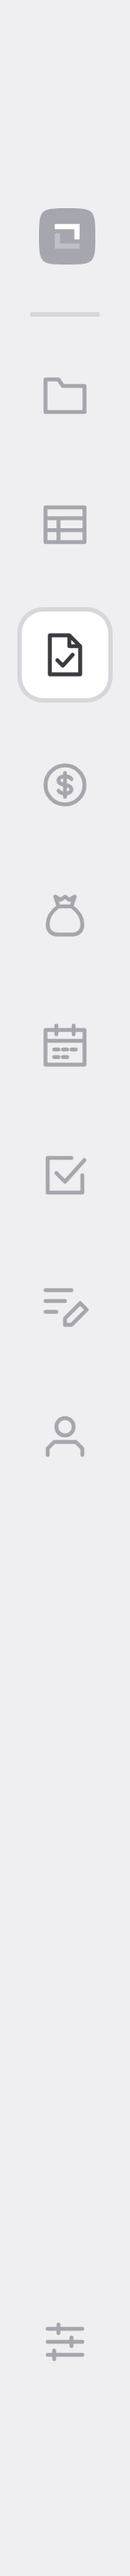
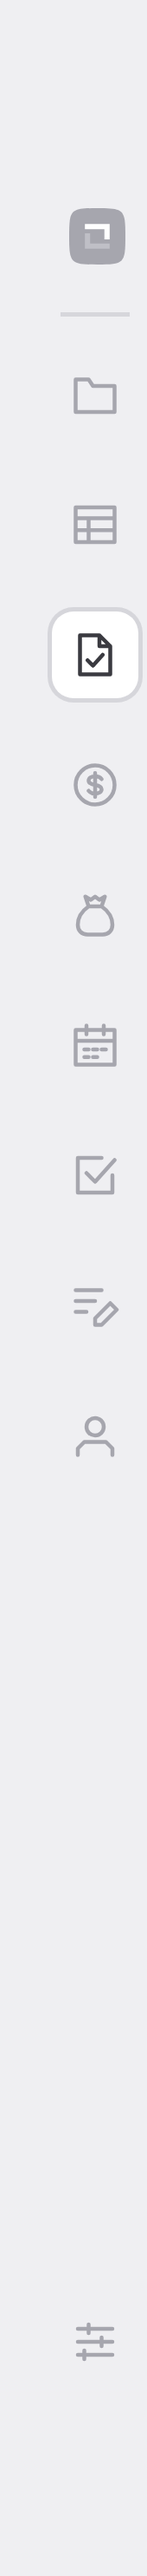
manual: side index band 17mm with symbols in print-safe zone, sample option [skip ci]
Claude-Session: https://claude.ai/code/session_01Jceth8a6knanqAjrfV6UhR

diff --git a/docs/manual/hangul/cover/띠-그림-17mm.html b/docs/manual/hangul/cover/띠-그림-17mm.html
@@ -1,0 +1,5 @@
+<!doctype html><meta charset=utf-8><style>body{margin:0;background:#fff}.band{width:34px;height:594px;background:#EFEFF2;position:relative;display:inline-block;margin-right:10px;vertical-align:top}
+.list{position:absolute;top:44px;left:10px;right:0;display:flex;flex-direction:column;align-items:center;gap:10px}
+.bot{position:absolute;bottom:44px;left:10px;right:0;display:flex;justify-content:center}
+.sm{width:20px;height:20px;border-radius:5px;display:flex;align-items:center;justify-content:center}.sm.on{background:#fff;box-shadow:0 0 0 1px #D6D6DB}
+.sm svg{display:block}.sdiv{width:16px;height:1px;background:#D6D6DB;margin:-2px 0}</style><div class="band" id="b_overview"><div class="list"><div class="sm on"><svg viewBox="0 0 100 100" width="13" height="13"><path d="M50 0C97.7 0 100 2.3 100 50C100 97.7 97.7 100 50 100C2.3 100 0 97.7 0 50C0 2.3 2.3 0 50 0Z" fill="#3A3A40"/><g transform="translate(50 50) scale(0.667) translate(-50 -50)"><path d="M17 17H83V58H69V31H17Z" fill="#FFFFFF"/><path d="M17 42H31V69H83V83H17Z" fill="#BFBFC6"/></g></svg></div><div class="sdiv"></div><div class="sm"><svg viewBox="0 0 24 24" width="12" height="12" fill="none" stroke="#A6A6AE" stroke-width="1.8" stroke-linecap="round" stroke-linejoin="round"><path d="M3 5h6l2 3h10v12H3z"/></svg></div><div class="sm"><svg viewBox="0 0 24 24" width="12" height="12" fill="none" stroke="#A6A6AE" stroke-width="1.8" stroke-linecap="round" stroke-linejoin="round"><path d="M3 4h18v16H3z M3 9h18 M3 14.5h18 M9 9v11"/></svg></div><div class="sm"><svg viewBox="0 0 24 24" width="12" height="12" fill="none" stroke="#A6A6AE" stroke-width="1.8" stroke-linecap="round" stroke-linejoin="round"><path d="M5 3h9l5 5v13H5z M14 3v5h5 M8.5 14.5l2.5 2.5 4.5-5"/></svg></div><div class="sm"><svg viewBox="0 0 24 24" width="12" height="12" fill="none" stroke="#A6A6AE" stroke-width="1.8" stroke-linecap="round" stroke-linejoin="round"><path d="M12 3a9 9 0 1 1 0 18a9 9 0 1 1 0-18z M15 9.3c-.6-.8-1.7-1.3-3-1.3-1.7 0-3 .8-3 2s1.3 1.7 3 2 3 .8 3 2-1.3 2-3 2c-1.3 0-2.4-.5-3-1.3 M12 6.5v11"/></svg></div><div class="sm"><svg viewBox="0 0 24 24" width="12" height="12" fill="none" stroke="#A6A6AE" stroke-width="1.8" stroke-linecap="round" stroke-linejoin="round"><path d="M9 8L7.5 3.5 10 5l2-1.5L14 5l2.5-1.5L15 8 M9 8h6 M9 8c-3.3 2.3-5 5.2-5 8.5 0 2.7 1.8 4.5 4.5 4.5h7c2.7 0 4.5-1.8 4.5-4.5 0-3.3-1.7-6.2-5-8.5"/></svg></div><div class="sm"><svg viewBox="0 0 24 24" width="12" height="12" fill="none" stroke="#A6A6AE" stroke-width="1.8" stroke-linecap="round" stroke-linejoin="round"><path d="M3 5h18v16H3z M3 10h18 M8 3v4 M16 3v4 M7 14h2 M11 14h2 M15 14h2 M7 17.5h2 M11 17.5h2"/></svg></div><div class="sm"><svg viewBox="0 0 24 24" width="12" height="12" fill="none" stroke="#A6A6AE" stroke-width="1.8" stroke-linecap="round" stroke-linejoin="round"><path d="M20 12v8H4V4h11 M8 11l4 4 9-10"/></svg></div><div class="sm"><svg viewBox="0 0 24 24" width="12" height="12" fill="none" stroke="#A6A6AE" stroke-width="1.8" stroke-linecap="round" stroke-linejoin="round"><path d="M3 5h12 M3 10h9 M3 15h5 M12 21v-3l7-7 3 3-7 7z"/></svg></div><div class="sm"><svg viewBox="0 0 24 24" width="12" height="12" fill="none" stroke="#A6A6AE" stroke-width="1.8" stroke-linecap="round" stroke-linejoin="round"><path d="M12 4a4 4 0 1 1 0 8a4 4 0 1 1 0-8z M4 21v-3l3-3h10l3 3v3"/></svg></div></div><div class="bot"><div class="sm"><svg viewBox="0 0 24 24" width="12" height="12" fill="none" stroke="#A6A6AE" stroke-width="1.8" stroke-linecap="round" stroke-linejoin="round"><path d="M4 6h16 M4 12h16 M4 18h16 M9 4v4 M15 10v4 M7 16v4"/></svg></div></div></div><div class="band" id="b_explorer"><div class="list"><div class="sm"><svg viewBox="0 0 100 100" width="13" height="13"><path d="M50 0C97.7 0 100 2.3 100 50C100 97.7 97.7 100 50 100C2.3 100 0 97.7 0 50C0 2.3 2.3 0 50 0Z" fill="#A6A6AE"/><g transform="translate(50 50) scale(0.667) translate(-50 -50)"><path d="M17 17H83V58H69V31H17Z" fill="#FFFFFF"/><path d="M17 42H31V69H83V83H17Z" fill="#BFBFC6"/></g></svg></div><div class="sdiv"></div><div class="sm on"><svg viewBox="0 0 24 24" width="12" height="12" fill="none" stroke="#3A3A40" stroke-width="1.8" stroke-linecap="round" stroke-linejoin="round"><path d="M3 5h6l2 3h10v12H3z"/></svg></div><div class="sm"><svg viewBox="0 0 24 24" width="12" height="12" fill="none" stroke="#A6A6AE" stroke-width="1.8" stroke-linecap="round" stroke-linejoin="round"><path d="M3 4h18v16H3z M3 9h18 M3 14.5h18 M9 9v11"/></svg></div><div class="sm"><svg viewBox="0 0 24 24" width="12" height="12" fill="none" stroke="#A6A6AE" stroke-width="1.8" stroke-linecap="round" stroke-linejoin="round"><path d="M5 3h9l5 5v13H5z M14 3v5h5 M8.5 14.5l2.5 2.5 4.5-5"/></svg></div><div class="sm"><svg viewBox="0 0 24 24" width="12" height="12" fill="none" stroke="#A6A6AE" stroke-width="1.8" stroke-linecap="round" stroke-linejoin="round"><path d="M12 3a9 9 0 1 1 0 18a9 9 0 1 1 0-18z M15 9.3c-.6-.8-1.7-1.3-3-1.3-1.7 0-3 .8-3 2s1.3 1.7 3 2 3 .8 3 2-1.3 2-3 2c-1.3 0-2.4-.5-3-1.3 M12 6.5v11"/></svg></div><div class="sm"><svg viewBox="0 0 24 24" width="12" height="12" fill="none" stroke="#A6A6AE" stroke-width="1.8" stroke-linecap="round" stroke-linejoin="round"><path d="M9 8L7.5 3.5 10 5l2-1.5L14 5l2.5-1.5L15 8 M9 8h6 M9 8c-3.3 2.3-5 5.2-5 8.5 0 2.7 1.8 4.5 4.5 4.5h7c2.7 0 4.5-1.8 4.5-4.5 0-3.3-1.7-6.2-5-8.5"/></svg></div><div class="sm"><svg viewBox="0 0 24 24" width="12" height="12" fill="none" stroke="#A6A6AE" stroke-width="1.8" stroke-linecap="round" stroke-linejoin="round"><path d="M3 5h18v16H3z M3 10h18 M8 3v4 M16 3v4 M7 14h2 M11 14h2 M15 14h2 M7 17.5h2 M11 17.5h2"/></svg></div><div class="sm"><svg viewBox="0 0 24 24" width="12" height="12" fill="none" stroke="#A6A6AE" stroke-width="1.8" stroke-linecap="round" stroke-linejoin="round"><path d="M20 12v8H4V4h11 M8 11l4 4 9-10"/></svg></div><div class="sm"><svg viewBox="0 0 24 24" width="12" height="12" fill="none" stroke="#A6A6AE" stroke-width="1.8" stroke-linecap="round" stroke-linejoin="round"><path d="M3 5h12 M3 10h9 M3 15h5 M12 21v-3l7-7 3 3-7 7z"/></svg></div><div class="sm"><svg viewBox="0 0 24 24" width="12" height="12" fill="none" stroke="#A6A6AE" stroke-width="1.8" stroke-linecap="round" stroke-linejoin="round"><path d="M12 4a4 4 0 1 1 0 8a4 4 0 1 1 0-8z M4 21v-3l3-3h10l3 3v3"/></svg></div></div><div class="bot"><div class="sm"><svg viewBox="0 0 24 24" width="12" height="12" fill="none" stroke="#A6A6AE" stroke-width="1.8" stroke-linecap="round" stroke-linejoin="round"><path d="M4 6h16 M4 12h16 M4 18h16 M9 4v4 M15 10v4 M7 16v4"/></svg></div></div></div><div class="band" id="b_complaints"><div class="list"><div class="sm"><svg viewBox="0 0 100 100" width="13" height="13"><path d="M50 0C97.7 0 100 2.3 100 50C100 97.7 97.7 100 50 100C2.3 100 0 97.7 0 50C0 2.3 2.3 0 50 0Z" fill="#A6A6AE"/><g transform="translate(50 50) scale(0.667) translate(-50 -50)"><path d="M17 17H83V58H69V31H17Z" fill="#FFFFFF"/><path d="M17 42H31V69H83V83H17Z" fill="#BFBFC6"/></g></svg></div><div class="sdiv"></div><div class="sm"><svg viewBox="0 0 24 24" width="12" height="12" fill="none" stroke="#A6A6AE" stroke-width="1.8" stroke-linecap="round" stroke-linejoin="round"><path d="M3 5h6l2 3h10v12H3z"/></svg></div><div class="sm on"><svg viewBox="0 0 24 24" width="12" height="12" fill="none" stroke="#3A3A40" stroke-width="1.8" stroke-linecap="round" stroke-linejoin="round"><path d="M3 4h18v16H3z M3 9h18 M3 14.5h18 M9 9v11"/></svg></div><div class="sm"><svg viewBox="0 0 24 24" width="12" height="12" fill="none" stroke="#A6A6AE" stroke-width="1.8" stroke-linecap="round" stroke-linejoin="round"><path d="M5 3h9l5 5v13H5z M14 3v5h5 M8.5 14.5l2.5 2.5 4.5-5"/></svg></div><div class="sm"><svg viewBox="0 0 24 24" width="12" height="12" fill="none" stroke="#A6A6AE" stroke-width="1.8" stroke-linecap="round" stroke-linejoin="round"><path d="M12 3a9 9 0 1 1 0 18a9 9 0 1 1 0-18z M15 9.3c-.6-.8-1.7-1.3-3-1.3-1.7 0-3 .8-3 2s1.3 1.7 3 2 3 .8 3 2-1.3 2-3 2c-1.3 0-2.4-.5-3-1.3 M12 6.5v11"/></svg></div><div class="sm"><svg viewBox="0 0 24 24" width="12" height="12" fill="none" stroke="#A6A6AE" stroke-width="1.8" stroke-linecap="round" stroke-linejoin="round"><path d="M9 8L7.5 3.5 10 5l2-1.5L14 5l2.5-1.5L15 8 M9 8h6 M9 8c-3.3 2.3-5 5.2-5 8.5 0 2.7 1.8 4.5 4.5 4.5h7c2.7 0 4.5-1.8 4.5-4.5 0-3.3-1.7-6.2-5-8.5"/></svg></div><div class="sm"><svg viewBox="0 0 24 24" width="12" height="12" fill="none" stroke="#A6A6AE" stroke-width="1.8" stroke-linecap="round" stroke-linejoin="round"><path d="M3 5h18v16H3z M3 10h18 M8 3v4 M16 3v4 M7 14h2 M11 14h2 M15 14h2 M7 17.5h2 M11 17.5h2"/></svg></div><div class="sm"><svg viewBox="0 0 24 24" width="12" height="12" fill="none" stroke="#A6A6AE" stroke-width="1.8" stroke-linecap="round" stroke-linejoin="round"><path d="M20 12v8H4V4h11 M8 11l4 4 9-10"/></svg></div><div class="sm"><svg viewBox="0 0 24 24" width="12" height="12" fill="none" stroke="#A6A6AE" stroke-width="1.8" stroke-linecap="round" stroke-linejoin="round"><path d="M3 5h12 M3 10h9 M3 15h5 M12 21v-3l7-7 3 3-7 7z"/></svg></div><div class="sm"><svg viewBox="0 0 24 24" width="12" height="12" fill="none" stroke="#A6A6AE" stroke-width="1.8" stroke-linecap="round" stroke-linejoin="round"><path d="M12 4a4 4 0 1 1 0 8a4 4 0 1 1 0-8z M4 21v-3l3-3h10l3 3v3"/></svg></div></div><div class="bot"><div class="sm"><svg viewBox="0 0 24 24" width="12" height="12" fill="none" stroke="#A6A6AE" stroke-width="1.8" stroke-linecap="round" stroke-linejoin="round"><path d="M4 6h16 M4 12h16 M4 18h16 M9 4v4 M15 10v4 M7 16v4"/></svg></div></div></div><div class="band" id="b_process"><div class="list"><div class="sm"><svg viewBox="0 0 100 100" width="13" height="13"><path d="M50 0C97.7 0 100 2.3 100 50C100 97.7 97.7 100 50 100C2.3 100 0 97.7 0 50C0 2.3 2.3 0 50 0Z" fill="#A6A6AE"/><g transform="translate(50 50) scale(0.667) translate(-50 -50)"><path d="M17 17H83V58H69V31H17Z" fill="#FFFFFF"/><path d="M17 42H31V69H83V83H17Z" fill="#BFBFC6"/></g></svg></div><div class="sdiv"></div><div class="sm"><svg viewBox="0 0 24 24" width="12" height="12" fill="none" stroke="#A6A6AE" stroke-width="1.8" stroke-linecap="round" stroke-linejoin="round"><path d="M3 5h6l2 3h10v12H3z"/></svg></div><div class="sm"><svg viewBox="0 0 24 24" width="12" height="12" fill="none" stroke="#A6A6AE" stroke-width="1.8" stroke-linecap="round" stroke-linejoin="round"><path d="M3 4h18v16H3z M3 9h18 M3 14.5h18 M9 9v11"/></svg></div><div class="sm on"><svg viewBox="0 0 24 24" width="12" height="12" fill="none" stroke="#3A3A40" stroke-width="1.8" stroke-linecap="round" stroke-linejoin="round"><path d="M5 3h9l5 5v13H5z M14 3v5h5 M8.5 14.5l2.5 2.5 4.5-5"/></svg></div><div class="sm"><svg viewBox="0 0 24 24" width="12" height="12" fill="none" stroke="#A6A6AE" stroke-width="1.8" stroke-linecap="round" stroke-linejoin="round"><path d="M12 3a9 9 0 1 1 0 18a9 9 0 1 1 0-18z M15 9.3c-.6-.8-1.7-1.3-3-1.3-1.7 0-3 .8-3 2s1.3 1.7 3 2 3 .8 3 2-1.3 2-3 2c-1.3 0-2.4-.5-3-1.3 M12 6.5v11"/></svg></div><div class="sm"><svg viewBox="0 0 24 24" width="12" height="12" fill="none" stroke="#A6A6AE" stroke-width="1.8" stroke-linecap="round" stroke-linejoin="round"><path d="M9 8L7.5 3.5 10 5l2-1.5L14 5l2.5-1.5L15 8 M9 8h6 M9 8c-3.3 2.3-5 5.2-5 8.5 0 2.7 1.8 4.5 4.5 4.5h7c2.7 0 4.5-1.8 4.5-4.5 0-3.3-1.7-6.2-5-8.5"/></svg></div><div class="sm"><svg viewBox="0 0 24 24" width="12" height="12" fill="none" stroke="#A6A6AE" stroke-width="1.8" stroke-linecap="round" stroke-linejoin="round"><path d="M3 5h18v16H3z M3 10h18 M8 3v4 M16 3v4 M7 14h2 M11 14h2 M15 14h2 M7 17.5h2 M11 17.5h2"/></svg></div><div class="sm"><svg viewBox="0 0 24 24" width="12" height="12" fill="none" stroke="#A6A6AE" stroke-width="1.8" stroke-linecap="round" stroke-linejoin="round"><path d="M20 12v8H4V4h11 M8 11l4 4 9-10"/></svg></div><div class="sm"><svg viewBox="0 0 24 24" width="12" height="12" fill="none" stroke="#A6A6AE" stroke-width="1.8" stroke-linecap="round" stroke-linejoin="round"><path d="M3 5h12 M3 10h9 M3 15h5 M12 21v-3l7-7 3 3-7 7z"/></svg></div><div class="sm"><svg viewBox="0 0 24 24" width="12" height="12" fill="none" stroke="#A6A6AE" stroke-width="1.8" stroke-linecap="round" stroke-linejoin="round"><path d="M12 4a4 4 0 1 1 0 8a4 4 0 1 1 0-8z M4 21v-3l3-3h10l3 3v3"/></svg></div></div><div class="bot"><div class="sm"><svg viewBox="0 0 24 24" width="12" height="12" fill="none" stroke="#A6A6AE" stroke-width="1.8" stroke-linecap="round" stroke-linejoin="round"><path d="M4 6h16 M4 12h16 M4 18h16 M9 4v4 M15 10v4 M7 16v4"/></svg></div></div></div><div class="band" id="b_budget"><div class="list"><div class="sm"><svg viewBox="0 0 100 100" width="13" height="13"><path d="M50 0C97.7 0 100 2.3 100 50C100 97.7 97.7 100 50 100C2.3 100 0 97.7 0 50C0 2.3 2.3 0 50 0Z" fill="#A6A6AE"/><g transform="translate(50 50) scale(0.667) translate(-50 -50)"><path d="M17 17H83V58H69V31H17Z" fill="#FFFFFF"/><path d="M17 42H31V69H83V83H17Z" fill="#BFBFC6"/></g></svg></div><div class="sdiv"></div><div class="sm"><svg viewBox="0 0 24 24" width="12" height="12" fill="none" stroke="#A6A6AE" stroke-width="1.8" stroke-linecap="round" stroke-linejoin="round"><path d="M3 5h6l2 3h10v12H3z"/></svg></div><div class="sm"><svg viewBox="0 0 24 24" width="12" height="12" fill="none" stroke="#A6A6AE" stroke-width="1.8" stroke-linecap="round" stroke-linejoin="round"><path d="M3 4h18v16H3z M3 9h18 M3 14.5h18 M9 9v11"/></svg></div><div class="sm"><svg viewBox="0 0 24 24" width="12" height="12" fill="none" stroke="#A6A6AE" stroke-width="1.8" stroke-linecap="round" stroke-linejoin="round"><path d="M5 3h9l5 5v13H5z M14 3v5h5 M8.5 14.5l2.5 2.5 4.5-5"/></svg></div><div class="sm on"><svg viewBox="0 0 24 24" width="12" height="12" fill="none" stroke="#3A3A40" stroke-width="1.8" stroke-linecap="round" stroke-linejoin="round"><path d="M12 3a9 9 0 1 1 0 18a9 9 0 1 1 0-18z M15 9.3c-.6-.8-1.7-1.3-3-1.3-1.7 0-3 .8-3 2s1.3 1.7 3 2 3 .8 3 2-1.3 2-3 2c-1.3 0-2.4-.5-3-1.3 M12 6.5v11"/></svg></div><div class="sm"><svg viewBox="0 0 24 24" width="12" height="12" fill="none" stroke="#A6A6AE" stroke-width="1.8" stroke-linecap="round" stroke-linejoin="round"><path d="M9 8L7.5 3.5 10 5l2-1.5L14 5l2.5-1.5L15 8 M9 8h6 M9 8c-3.3 2.3-5 5.2-5 8.5 0 2.7 1.8 4.5 4.5 4.5h7c2.7 0 4.5-1.8 4.5-4.5 0-3.3-1.7-6.2-5-8.5"/></svg></div><div class="sm"><svg viewBox="0 0 24 24" width="12" height="12" fill="none" stroke="#A6A6AE" stroke-width="1.8" stroke-linecap="round" stroke-linejoin="round"><path d="M3 5h18v16H3z M3 10h18 M8 3v4 M16 3v4 M7 14h2 M11 14h2 M15 14h2 M7 17.5h2 M11 17.5h2"/></svg></div><div class="sm"><svg viewBox="0 0 24 24" width="12" height="12" fill="none" stroke="#A6A6AE" stroke-width="1.8" stroke-linecap="round" stroke-linejoin="round"><path d="M20 12v8H4V4h11 M8 11l4 4 9-10"/></svg></div><div class="sm"><svg viewBox="0 0 24 24" width="12" height="12" fill="none" stroke="#A6A6AE" stroke-width="1.8" stroke-linecap="round" stroke-linejoin="round"><path d="M3 5h12 M3 10h9 M3 15h5 M12 21v-3l7-7 3 3-7 7z"/></svg></div><div class="sm"><svg viewBox="0 0 24 24" width="12" height="12" fill="none" stroke="#A6A6AE" stroke-width="1.8" stroke-linecap="round" stroke-linejoin="round"><path d="M12 4a4 4 0 1 1 0 8a4 4 0 1 1 0-8z M4 21v-3l3-3h10l3 3v3"/></svg></div></div><div class="bot"><div class="sm"><svg viewBox="0 0 24 24" width="12" height="12" fill="none" stroke="#A6A6AE" stroke-width="1.8" stroke-linecap="round" stroke-linejoin="round"><path d="M4 6h16 M4 12h16 M4 18h16 M9 4v4 M15 10v4 M7 16v4"/></svg></div></div></div><div class="band" id="b_bstatus"><div class="list"><div class="sm"><svg viewBox="0 0 100 100" width="13" height="13"><path d="M50 0C97.7 0 100 2.3 100 50C100 97.7 97.7 100 50 100C2.3 100 0 97.7 0 50C0 2.3 2.3 0 50 0Z" fill="#A6A6AE"/><g transform="translate(50 50) scale(0.667) translate(-50 -50)"><path d="M17 17H83V58H69V31H17Z" fill="#FFFFFF"/><path d="M17 42H31V69H83V83H17Z" fill="#BFBFC6"/></g></svg></div><div class="sdiv"></div><div class="sm"><svg viewBox="0 0 24 24" width="12" height="12" fill="none" stroke="#A6A6AE" stroke-width="1.8" stroke-linecap="round" stroke-linejoin="round"><path d="M3 5h6l2 3h10v12H3z"/></svg></div><div class="sm"><svg viewBox="0 0 24 24" width="12" height="12" fill="none" stroke="#A6A6AE" stroke-width="1.8" stroke-linecap="round" stroke-linejoin="round"><path d="M3 4h18v16H3z M3 9h18 M3 14.5h18 M9 9v11"/></svg></div><div class="sm"><svg viewBox="0 0 24 24" width="12" height="12" fill="none" stroke="#A6A6AE" stroke-width="1.8" stroke-linecap="round" stroke-linejoin="round"><path d="M5 3h9l5 5v13H5z M14 3v5h5 M8.5 14.5l2.5 2.5 4.5-5"/></svg></div><div class="sm"><svg viewBox="0 0 24 24" width="12" height="12" fill="none" stroke="#A6A6AE" stroke-width="1.8" stroke-linecap="round" stroke-linejoin="round"><path d="M12 3a9 9 0 1 1 0 18a9 9 0 1 1 0-18z M15 9.3c-.6-.8-1.7-1.3-3-1.3-1.7 0-3 .8-3 2s1.3 1.7 3 2 3 .8 3 2-1.3 2-3 2c-1.3 0-2.4-.5-3-1.3 M12 6.5v11"/></svg></div><div class="sm on"><svg viewBox="0 0 24 24" width="12" height="12" fill="none" stroke="#3A3A40" stroke-width="1.8" stroke-linecap="round" stroke-linejoin="round"><path d="M9 8L7.5 3.5 10 5l2-1.5L14 5l2.5-1.5L15 8 M9 8h6 M9 8c-3.3 2.3-5 5.2-5 8.5 0 2.7 1.8 4.5 4.5 4.5h7c2.7 0 4.5-1.8 4.5-4.5 0-3.3-1.7-6.2-5-8.5"/></svg></div><div class="sm"><svg viewBox="0 0 24 24" width="12" height="12" fill="none" stroke="#A6A6AE" stroke-width="1.8" stroke-linecap="round" stroke-linejoin="round"><path d="M3 5h18v16H3z M3 10h18 M8 3v4 M16 3v4 M7 14h2 M11 14h2 M15 14h2 M7 17.5h2 M11 17.5h2"/></svg></div><div class="sm"><svg viewBox="0 0 24 24" width="12" height="12" fill="none" stroke="#A6A6AE" stroke-width="1.8" stroke-linecap="round" stroke-linejoin="round"><path d="M20 12v8H4V4h11 M8 11l4 4 9-10"/></svg></div><div class="sm"><svg viewBox="0 0 24 24" width="12" height="12" fill="none" stroke="#A6A6AE" stroke-width="1.8" stroke-linecap="round" stroke-linejoin="round"><path d="M3 5h12 M3 10h9 M3 15h5 M12 21v-3l7-7 3 3-7 7z"/></svg></div><div class="sm"><svg viewBox="0 0 24 24" width="12" height="12" fill="none" stroke="#A6A6AE" stroke-width="1.8" stroke-linecap="round" stroke-linejoin="round"><path d="M12 4a4 4 0 1 1 0 8a4 4 0 1 1 0-8z M4 21v-3l3-3h10l3 3v3"/></svg></div></div><div class="bot"><div class="sm"><svg viewBox="0 0 24 24" width="12" height="12" fill="none" stroke="#A6A6AE" stroke-width="1.8" stroke-linecap="round" stroke-linejoin="round"><path d="M4 6h16 M4 12h16 M4 18h16 M9 4v4 M15 10v4 M7 16v4"/></svg></div></div></div><div class="band" id="b_calendar"><div class="list"><div class="sm"><svg viewBox="0 0 100 100" width="13" height="13"><path d="M50 0C97.7 0 100 2.3 100 50C100 97.7 97.7 100 50 100C2.3 100 0 97.7 0 50C0 2.3 2.3 0 50 0Z" fill="#A6A6AE"/><g transform="translate(50 50) scale(0.667) translate(-50 -50)"><path d="M17 17H83V58H69V31H17Z" fill="#FFFFFF"/><path d="M17 42H31V69H83V83H17Z" fill="#BFBFC6"/></g></svg></div><div class="sdiv"></div><div class="sm"><svg viewBox="0 0 24 24" width="12" height="12" fill="none" stroke="#A6A6AE" stroke-width="1.8" stroke-linecap="round" stroke-linejoin="round"><path d="M3 5h6l2 3h10v12H3z"/></svg></div><div class="sm"><svg viewBox="0 0 24 24" width="12" height="12" fill="none" stroke="#A6A6AE" stroke-width="1.8" stroke-linecap="round" stroke-linejoin="round"><path d="M3 4h18v16H3z M3 9h18 M3 14.5h18 M9 9v11"/></svg></div><div class="sm"><svg viewBox="0 0 24 24" width="12" height="12" fill="none" stroke="#A6A6AE" stroke-width="1.8" stroke-linecap="round" stroke-linejoin="round"><path d="M5 3h9l5 5v13H5z M14 3v5h5 M8.5 14.5l2.5 2.5 4.5-5"/></svg></div><div class="sm"><svg viewBox="0 0 24 24" width="12" height="12" fill="none" stroke="#A6A6AE" stroke-width="1.8" stroke-linecap="round" stroke-linejoin="round"><path d="M12 3a9 9 0 1 1 0 18a9 9 0 1 1 0-18z M15 9.3c-.6-.8-1.7-1.3-3-1.3-1.7 0-3 .8-3 2s1.3 1.7 3 2 3 .8 3 2-1.3 2-3 2c-1.3 0-2.4-.5-3-1.3 M12 6.5v11"/></svg></div><div class="sm"><svg viewBox="0 0 24 24" width="12" height="12" fill="none" stroke="#A6A6AE" stroke-width="1.8" stroke-linecap="round" stroke-linejoin="round"><path d="M9 8L7.5 3.5 10 5l2-1.5L14 5l2.5-1.5L15 8 M9 8h6 M9 8c-3.3 2.3-5 5.2-5 8.5 0 2.7 1.8 4.5 4.5 4.5h7c2.7 0 4.5-1.8 4.5-4.5 0-3.3-1.7-6.2-5-8.5"/></svg></div><div class="sm on"><svg viewBox="0 0 24 24" width="12" height="12" fill="none" stroke="#3A3A40" stroke-width="1.8" stroke-linecap="round" stroke-linejoin="round"><path d="M3 5h18v16H3z M3 10h18 M8 3v4 M16 3v4 M7 14h2 M11 14h2 M15 14h2 M7 17.5h2 M11 17.5h2"/></svg></div><div class="sm"><svg viewBox="0 0 24 24" width="12" height="12" fill="none" stroke="#A6A6AE" stroke-width="1.8" stroke-linecap="round" stroke-linejoin="round"><path d="M20 12v8H4V4h11 M8 11l4 4 9-10"/></svg></div><div class="sm"><svg viewBox="0 0 24 24" width="12" height="12" fill="none" stroke="#A6A6AE" stroke-width="1.8" stroke-linecap="round" stroke-linejoin="round"><path d="M3 5h12 M3 10h9 M3 15h5 M12 21v-3l7-7 3 3-7 7z"/></svg></div><div class="sm"><svg viewBox="0 0 24 24" width="12" height="12" fill="none" stroke="#A6A6AE" stroke-width="1.8" stroke-linecap="round" stroke-linejoin="round"><path d="M12 4a4 4 0 1 1 0 8a4 4 0 1 1 0-8z M4 21v-3l3-3h10l3 3v3"/></svg></div></div><div class="bot"><div class="sm"><svg viewBox="0 0 24 24" width="12" height="12" fill="none" stroke="#A6A6AE" stroke-width="1.8" stroke-linecap="round" stroke-linejoin="round"><path d="M4 6h16 M4 12h16 M4 18h16 M9 4v4 M15 10v4 M7 16v4"/></svg></div></div></div><div class="band" id="b_todo"><div class="list"><div class="sm"><svg viewBox="0 0 100 100" width="13" height="13"><path d="M50 0C97.7 0 100 2.3 100 50C100 97.7 97.7 100 50 100C2.3 100 0 97.7 0 50C0 2.3 2.3 0 50 0Z" fill="#A6A6AE"/><g transform="translate(50 50) scale(0.667) translate(-50 -50)"><path d="M17 17H83V58H69V31H17Z" fill="#FFFFFF"/><path d="M17 42H31V69H83V83H17Z" fill="#BFBFC6"/></g></svg></div><div class="sdiv"></div><div class="sm"><svg viewBox="0 0 24 24" width="12" height="12" fill="none" stroke="#A6A6AE" stroke-width="1.8" stroke-linecap="round" stroke-linejoin="round"><path d="M3 5h6l2 3h10v12H3z"/></svg></div><div class="sm"><svg viewBox="0 0 24 24" width="12" height="12" fill="none" stroke="#A6A6AE" stroke-width="1.8" stroke-linecap="round" stroke-linejoin="round"><path d="M3 4h18v16H3z M3 9h18 M3 14.5h18 M9 9v11"/></svg></div><div class="sm"><svg viewBox="0 0 24 24" width="12" height="12" fill="none" stroke="#A6A6AE" stroke-width="1.8" stroke-linecap="round" stroke-linejoin="round"><path d="M5 3h9l5 5v13H5z M14 3v5h5 M8.5 14.5l2.5 2.5 4.5-5"/></svg></div><div class="sm"><svg viewBox="0 0 24 24" width="12" height="12" fill="none" stroke="#A6A6AE" stroke-width="1.8" stroke-linecap="round" stroke-linejoin="round"><path d="M12 3a9 9 0 1 1 0 18a9 9 0 1 1 0-18z M15 9.3c-.6-.8-1.7-1.3-3-1.3-1.7 0-3 .8-3 2s1.3 1.7 3 2 3 .8 3 2-1.3 2-3 2c-1.3 0-2.4-.5-3-1.3 M12 6.5v11"/></svg></div><div class="sm"><svg viewBox="0 0 24 24" width="12" height="12" fill="none" stroke="#A6A6AE" stroke-width="1.8" stroke-linecap="round" stroke-linejoin="round"><path d="M9 8L7.5 3.5 10 5l2-1.5L14 5l2.5-1.5L15 8 M9 8h6 M9 8c-3.3 2.3-5 5.2-5 8.5 0 2.7 1.8 4.5 4.5 4.5h7c2.7 0 4.5-1.8 4.5-4.5 0-3.3-1.7-6.2-5-8.5"/></svg></div><div class="sm"><svg viewBox="0 0 24 24" width="12" height="12" fill="none" stroke="#A6A6AE" stroke-width="1.8" stroke-linecap="round" stroke-linejoin="round"><path d="M3 5h18v16H3z M3 10h18 M8 3v4 M16 3v4 M7 14h2 M11 14h2 M15 14h2 M7 17.5h2 M11 17.5h2"/></svg></div><div class="sm on"><svg viewBox="0 0 24 24" width="12" height="12" fill="none" stroke="#3A3A40" stroke-width="1.8" stroke-linecap="round" stroke-linejoin="round"><path d="M20 12v8H4V4h11 M8 11l4 4 9-10"/></svg></div><div class="sm"><svg viewBox="0 0 24 24" width="12" height="12" fill="none" stroke="#A6A6AE" stroke-width="1.8" stroke-linecap="round" stroke-linejoin="round"><path d="M3 5h12 M3 10h9 M3 15h5 M12 21v-3l7-7 3 3-7 7z"/></svg></div><div class="sm"><svg viewBox="0 0 24 24" width="12" height="12" fill="none" stroke="#A6A6AE" stroke-width="1.8" stroke-linecap="round" stroke-linejoin="round"><path d="M12 4a4 4 0 1 1 0 8a4 4 0 1 1 0-8z M4 21v-3l3-3h10l3 3v3"/></svg></div></div><div class="bot"><div class="sm"><svg viewBox="0 0 24 24" width="12" height="12" fill="none" stroke="#A6A6AE" stroke-width="1.8" stroke-linecap="round" stroke-linejoin="round"><path d="M4 6h16 M4 12h16 M4 18h16 M9 4v4 M15 10v4 M7 16v4"/></svg></div></div></div><div class="band" id="b_journal"><div class="list"><div class="sm"><svg viewBox="0 0 100 100" width="13" height="13"><path d="M50 0C97.7 0 100 2.3 100 50C100 97.7 97.7 100 50 100C2.3 100 0 97.7 0 50C0 2.3 2.3 0 50 0Z" fill="#A6A6AE"/><g transform="translate(50 50) scale(0.667) translate(-50 -50)"><path d="M17 17H83V58H69V31H17Z" fill="#FFFFFF"/><path d="M17 42H31V69H83V83H17Z" fill="#BFBFC6"/></g></svg></div><div class="sdiv"></div><div class="sm"><svg viewBox="0 0 24 24" width="12" height="12" fill="none" stroke="#A6A6AE" stroke-width="1.8" stroke-linecap="round" stroke-linejoin="round"><path d="M3 5h6l2 3h10v12H3z"/></svg></div><div class="sm"><svg viewBox="0 0 24 24" width="12" height="12" fill="none" stroke="#A6A6AE" stroke-width="1.8" stroke-linecap="round" stroke-linejoin="round"><path d="M3 4h18v16H3z M3 9h18 M3 14.5h18 M9 9v11"/></svg></div><div class="sm"><svg viewBox="0 0 24 24" width="12" height="12" fill="none" stroke="#A6A6AE" stroke-width="1.8" stroke-linecap="round" stroke-linejoin="round"><path d="M5 3h9l5 5v13H5z M14 3v5h5 M8.5 14.5l2.5 2.5 4.5-5"/></svg></div><div class="sm"><svg viewBox="0 0 24 24" width="12" height="12" fill="none" stroke="#A6A6AE" stroke-width="1.8" stroke-linecap="round" stroke-linejoin="round"><path d="M12 3a9 9 0 1 1 0 18a9 9 0 1 1 0-18z M15 9.3c-.6-.8-1.7-1.3-3-1.3-1.7 0-3 .8-3 2s1.3 1.7 3 2 3 .8 3 2-1.3 2-3 2c-1.3 0-2.4-.5-3-1.3 M12 6.5v11"/></svg></div><div class="sm"><svg viewBox="0 0 24 24" width="12" height="12" fill="none" stroke="#A6A6AE" stroke-width="1.8" stroke-linecap="round" stroke-linejoin="round"><path d="M9 8L7.5 3.5 10 5l2-1.5L14 5l2.5-1.5L15 8 M9 8h6 M9 8c-3.3 2.3-5 5.2-5 8.5 0 2.7 1.8 4.5 4.5 4.5h7c2.7 0 4.5-1.8 4.5-4.5 0-3.3-1.7-6.2-5-8.5"/></svg></div><div class="sm"><svg viewBox="0 0 24 24" width="12" height="12" fill="none" stroke="#A6A6AE" stroke-width="1.8" stroke-linecap="round" stroke-linejoin="round"><path d="M3 5h18v16H3z M3 10h18 M8 3v4 M16 3v4 M7 14h2 M11 14h2 M15 14h2 M7 17.5h2 M11 17.5h2"/></svg></div><div class="sm"><svg viewBox="0 0 24 24" width="12" height="12" fill="none" stroke="#A6A6AE" stroke-width="1.8" stroke-linecap="round" stroke-linejoin="round"><path d="M20 12v8H4V4h11 M8 11l4 4 9-10"/></svg></div><div class="sm on"><svg viewBox="0 0 24 24" width="12" height="12" fill="none" stroke="#3A3A40" stroke-width="1.8" stroke-linecap="round" stroke-linejoin="round"><path d="M3 5h12 M3 10h9 M3 15h5 M12 21v-3l7-7 3 3-7 7z"/></svg></div><div class="sm"><svg viewBox="0 0 24 24" width="12" height="12" fill="none" stroke="#A6A6AE" stroke-width="1.8" stroke-linecap="round" stroke-linejoin="round"><path d="M12 4a4 4 0 1 1 0 8a4 4 0 1 1 0-8z M4 21v-3l3-3h10l3 3v3"/></svg></div></div><div class="bot"><div class="sm"><svg viewBox="0 0 24 24" width="12" height="12" fill="none" stroke="#A6A6AE" stroke-width="1.8" stroke-linecap="round" stroke-linejoin="round"><path d="M4 6h16 M4 12h16 M4 18h16 M9 4v4 M15 10v4 M7 16v4"/></svg></div></div></div><div class="band" id="b_contacts"><div class="list"><div class="sm"><svg viewBox="0 0 100 100" width="13" height="13"><path d="M50 0C97.7 0 100 2.3 100 50C100 97.7 97.7 100 50 100C2.3 100 0 97.7 0 50C0 2.3 2.3 0 50 0Z" fill="#A6A6AE"/><g transform="translate(50 50) scale(0.667) translate(-50 -50)"><path d="M17 17H83V58H69V31H17Z" fill="#FFFFFF"/><path d="M17 42H31V69H83V83H17Z" fill="#BFBFC6"/></g></svg></div><div class="sdiv"></div><div class="sm"><svg viewBox="0 0 24 24" width="12" height="12" fill="none" stroke="#A6A6AE" stroke-width="1.8" stroke-linecap="round" stroke-linejoin="round"><path d="M3 5h6l2 3h10v12H3z"/></svg></div><div class="sm"><svg viewBox="0 0 24 24" width="12" height="12" fill="none" stroke="#A6A6AE" stroke-width="1.8" stroke-linecap="round" stroke-linejoin="round"><path d="M3 4h18v16H3z M3 9h18 M3 14.5h18 M9 9v11"/></svg></div><div class="sm"><svg viewBox="0 0 24 24" width="12" height="12" fill="none" stroke="#A6A6AE" stroke-width="1.8" stroke-linecap="round" stroke-linejoin="round"><path d="M5 3h9l5 5v13H5z M14 3v5h5 M8.5 14.5l2.5 2.5 4.5-5"/></svg></div><div class="sm"><svg viewBox="0 0 24 24" width="12" height="12" fill="none" stroke="#A6A6AE" stroke-width="1.8" stroke-linecap="round" stroke-linejoin="round"><path d="M12 3a9 9 0 1 1 0 18a9 9 0 1 1 0-18z M15 9.3c-.6-.8-1.7-1.3-3-1.3-1.7 0-3 .8-3 2s1.3 1.7 3 2 3 .8 3 2-1.3 2-3 2c-1.3 0-2.4-.5-3-1.3 M12 6.5v11"/></svg></div><div class="sm"><svg viewBox="0 0 24 24" width="12" height="12" fill="none" stroke="#A6A6AE" stroke-width="1.8" stroke-linecap="round" stroke-linejoin="round"><path d="M9 8L7.5 3.5 10 5l2-1.5L14 5l2.5-1.5L15 8 M9 8h6 M9 8c-3.3 2.3-5 5.2-5 8.5 0 2.7 1.8 4.5 4.5 4.5h7c2.7 0 4.5-1.8 4.5-4.5 0-3.3-1.7-6.2-5-8.5"/></svg></div><div class="sm"><svg viewBox="0 0 24 24" width="12" height="12" fill="none" stroke="#A6A6AE" stroke-width="1.8" stroke-linecap="round" stroke-linejoin="round"><path d="M3 5h18v16H3z M3 10h18 M8 3v4 M16 3v4 M7 14h2 M11 14h2 M15 14h2 M7 17.5h2 M11 17.5h2"/></svg></div><div class="sm"><svg viewBox="0 0 24 24" width="12" height="12" fill="none" stroke="#A6A6AE" stroke-width="1.8" stroke-linecap="round" stroke-linejoin="round"><path d="M20 12v8H4V4h11 M8 11l4 4 9-10"/></svg></div><div class="sm"><svg viewBox="0 0 24 24" width="12" height="12" fill="none" stroke="#A6A6AE" stroke-width="1.8" stroke-linecap="round" stroke-linejoin="round"><path d="M3 5h12 M3 10h9 M3 15h5 M12 21v-3l7-7 3 3-7 7z"/></svg></div><div class="sm on"><svg viewBox="0 0 24 24" width="12" height="12" fill="none" stroke="#3A3A40" stroke-width="1.8" stroke-linecap="round" stroke-linejoin="round"><path d="M12 4a4 4 0 1 1 0 8a4 4 0 1 1 0-8z M4 21v-3l3-3h10l3 3v3"/></svg></div></div><div class="bot"><div class="sm"><svg viewBox="0 0 24 24" width="12" height="12" fill="none" stroke="#A6A6AE" stroke-width="1.8" stroke-linecap="round" stroke-linejoin="round"><path d="M4 6h16 M4 12h16 M4 18h16 M9 4v4 M15 10v4 M7 16v4"/></svg></div></div></div><div class="band" id="b_settings"><div class="list"><div class="sm"><svg viewBox="0 0 100 100" width="13" height="13"><path d="M50 0C97.7 0 100 2.3 100 50C100 97.7 97.7 100 50 100C2.3 100 0 97.7 0 50C0 2.3 2.3 0 50 0Z" fill="#A6A6AE"/><g transform="translate(50 50) scale(0.667) translate(-50 -50)"><path d="M17 17H83V58H69V31H17Z" fill="#FFFFFF"/><path d="M17 42H31V69H83V83H17Z" fill="#BFBFC6"/></g></svg></div><div class="sdiv"></div><div class="sm"><svg viewBox="0 0 24 24" width="12" height="12" fill="none" stroke="#A6A6AE" stroke-width="1.8" stroke-linecap="round" stroke-linejoin="round"><path d="M3 5h6l2 3h10v12H3z"/></svg></div><div class="sm"><svg viewBox="0 0 24 24" width="12" height="12" fill="none" stroke="#A6A6AE" stroke-width="1.8" stroke-linecap="round" stroke-linejoin="round"><path d="M3 4h18v16H3z M3 9h18 M3 14.5h18 M9 9v11"/></svg></div><div class="sm"><svg viewBox="0 0 24 24" width="12" height="12" fill="none" stroke="#A6A6AE" stroke-width="1.8" stroke-linecap="round" stroke-linejoin="round"><path d="M5 3h9l5 5v13H5z M14 3v5h5 M8.5 14.5l2.5 2.5 4.5-5"/></svg></div><div class="sm"><svg viewBox="0 0 24 24" width="12" height="12" fill="none" stroke="#A6A6AE" stroke-width="1.8" stroke-linecap="round" stroke-linejoin="round"><path d="M12 3a9 9 0 1 1 0 18a9 9 0 1 1 0-18z M15 9.3c-.6-.8-1.7-1.3-3-1.3-1.7 0-3 .8-3 2s1.3 1.7 3 2 3 .8 3 2-1.3 2-3 2c-1.3 0-2.4-.5-3-1.3 M12 6.5v11"/></svg></div><div class="sm"><svg viewBox="0 0 24 24" width="12" height="12" fill="none" stroke="#A6A6AE" stroke-width="1.8" stroke-linecap="round" stroke-linejoin="round"><path d="M9 8L7.5 3.5 10 5l2-1.5L14 5l2.5-1.5L15 8 M9 8h6 M9 8c-3.3 2.3-5 5.2-5 8.5 0 2.7 1.8 4.5 4.5 4.5h7c2.7 0 4.5-1.8 4.5-4.5 0-3.3-1.7-6.2-5-8.5"/></svg></div><div class="sm"><svg viewBox="0 0 24 24" width="12" height="12" fill="none" stroke="#A6A6AE" stroke-width="1.8" stroke-linecap="round" stroke-linejoin="round"><path d="M3 5h18v16H3z M3 10h18 M8 3v4 M16 3v4 M7 14h2 M11 14h2 M15 14h2 M7 17.5h2 M11 17.5h2"/></svg></div><div class="sm"><svg viewBox="0 0 24 24" width="12" height="12" fill="none" stroke="#A6A6AE" stroke-width="1.8" stroke-linecap="round" stroke-linejoin="round"><path d="M20 12v8H4V4h11 M8 11l4 4 9-10"/></svg></div><div class="sm"><svg viewBox="0 0 24 24" width="12" height="12" fill="none" stroke="#A6A6AE" stroke-width="1.8" stroke-linecap="round" stroke-linejoin="round"><path d="M3 5h12 M3 10h9 M3 15h5 M12 21v-3l7-7 3 3-7 7z"/></svg></div><div class="sm"><svg viewBox="0 0 24 24" width="12" height="12" fill="none" stroke="#A6A6AE" stroke-width="1.8" stroke-linecap="round" stroke-linejoin="round"><path d="M12 4a4 4 0 1 1 0 8a4 4 0 1 1 0-8z M4 21v-3l3-3h10l3 3v3"/></svg></div></div><div class="bot"><div class="sm on"><svg viewBox="0 0 24 24" width="12" height="12" fill="none" stroke="#3A3A40" stroke-width="1.8" stroke-linecap="round" stroke-linejoin="round"><path d="M4 6h16 M4 12h16 M4 18h16 M9 4v4 M15 10v4 M7 16v4"/></svg></div></div></div>

diff --git a/tools/manual/hwpx_design.py b/tools/manual/hwpx_design.py
@@ -9,7 +9,7 @@ from PIL import Image
 
 PW, PH = 59528, 84186
 LEFT = 5669                      # 왼쪽 여백 20mm
-BAND_W = 4252                    # 띠 15mm
+BAND_W = int(os.environ.get("BAND_MM", "17")) * 28346 // 100   # 색인 띠 폭(종이 끝부터, 바깥 약 5mm는 인쇄에서 잘려도 되게)
 CH_KEYS = ["overview", "explorer", "complaints", "process", "budget", "bstatus",
            "calendar", "todo", "journal", "contacts", "settings"]
 
@@ -35,6 +35,9 @@ def put_in_first_run(p, pic):
     if m2 and (not m or m2.start() < m.start()):
         return p[:m2.end()] + pic + p[m2.end():]
     return p[:m.start()] + f'<hp:run charPrIDRef="{m.group(1)}">{pic}</hp:run>' + p[m.end():]
+
+# 예시만 만들 때: SAMPLE="30-66,66-99"(맨 위 문단 번호 범위)
+KEEP = [tuple(map(int, r.split("-"))) for r in os.environ.get("SAMPLE", "").split(",") if r]
 
 def main():
     src, out, img = sys.argv[1:4]
@@ -80,6 +83,8 @@ def main():
             assert not re.search(r'<hp:t>[^<]', p), i
             p = put_in_first_run(p, fpic(rule, os.path.join(img, "rule.png"), PW - 2 * LEFT, 57, LEFT, 700, "PARA", "PAPER", 2))
             nrule += 1
+        if KEEP and not any(a <= i < c for a, c in KEEP):
+            continue
         newp.append(p)
     sec2 = head + "".join(newp) + tail
     hpf = hpf.replace("</opf:manifest>", "".join(f'<opf:item id="{x}" href="BinData/{x}.png" media-type="image/png" isEmbeded="1"/>'
